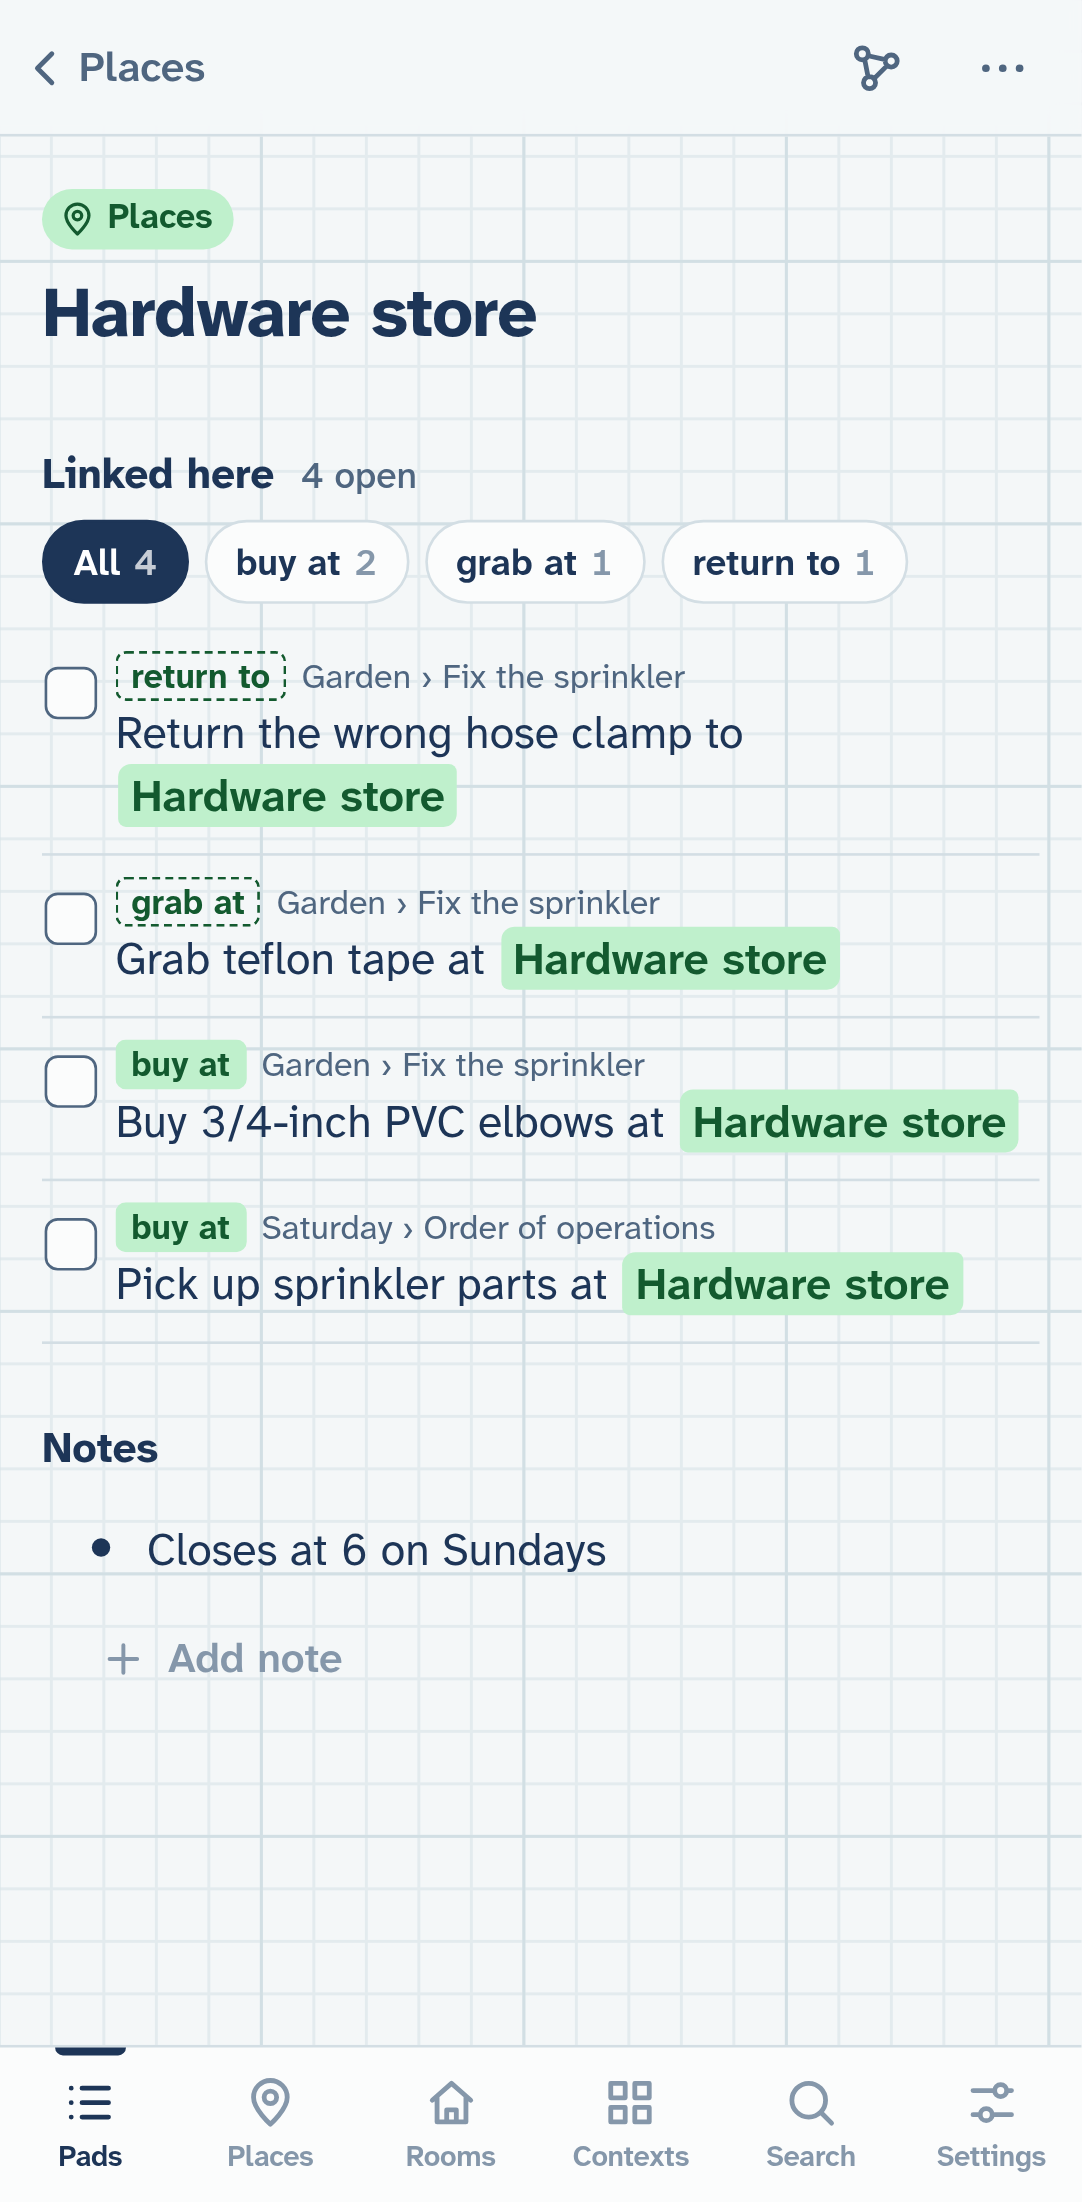
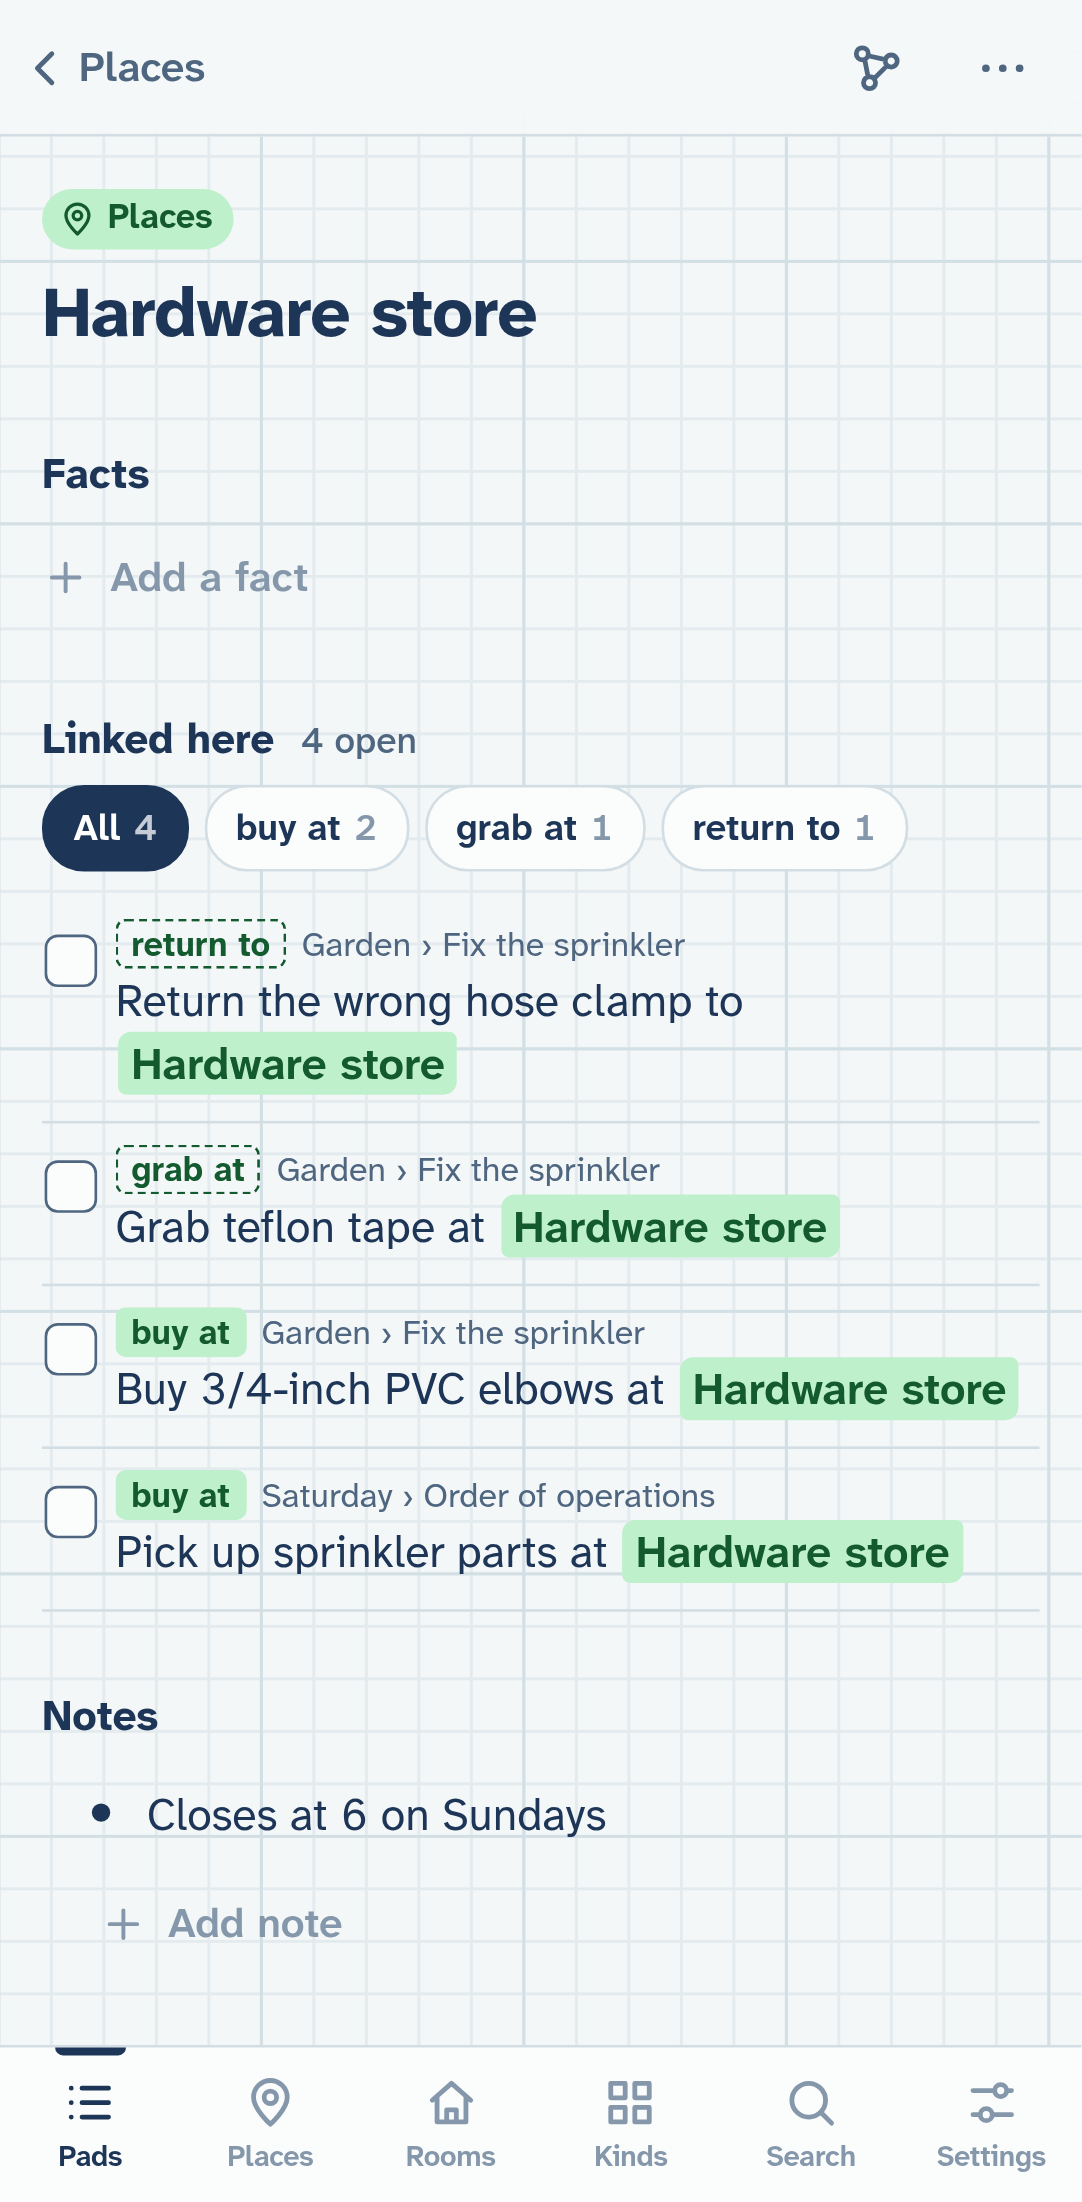
The Contexts tab is Kinds: pages for the things you link to, by kind
"Context" didn't mean much to people. In the app a context is now a page
with a kind: the tab and its page are Kinds (/kinds; /contexts redirects),
"Make it a context…" is "Give it a kind…", "Not a context" is "No kind", and
counts say pages. The code keeps the word context. README screenshots redone.

Claude-Session: https://claude.ai/code/session_013hgWCsSFmwQTxXN2GTq1RW

diff --git a/src/lib/contextActions.ts b/src/lib/contextActions.ts
@@ -9,7 +9,7 @@ import { confirmDialog, openSheet, promptDialog, reportError, toast, type SheetA
 /** Ask for a new kind's name and make it. Resolves to its id, or null. */
 export async function newCategory(): Promise<string | null> {
   const name = await promptDialog({
-    title: 'New kind of context',
+    title: 'New kind',
     message: 'Rooms, Projects, Stores… Anything you link to that’s worth a list of its own.',
     confirmLabel: 'Make it',
     placeholder: 'Rooms',
@@ -29,7 +29,7 @@ export function chooseCategory(nodeId: string, label: string, current: string | 
   const set = (catId: string | null, name?: string) =>
     void api
       .setCategory(nodeId, catId)
-      .then(() => toast(catId ? `“${label}” is in ${name}` : `“${label}” isn’t a context now`))
+      .then(() => toast(catId ? `“${label}” is in ${name}` : `“${label}” has no kind now`))
       .catch(reportError)
   const actions: SheetAction[] = categories.value.map((c) => ({
     label: c.id === current ? `${c.name} ✓` : c.name,
@@ -44,7 +44,7 @@ export function chooseCategory(nodeId: string, label: string, current: string | 
       if (id) set(id, categoryById(id)?.name ?? 'it')
     },
   })
-  if (current) actions.push({ label: 'Not a context', icon: 'x', run: () => set(null) })
+  if (current) actions.push({ label: 'No kind', icon: 'x', run: () => set(null) })
   openSheet({ title: `What is “${label}”?`, actions })
 }
 
@@ -57,7 +57,7 @@ export function togglePinned(id: string): void {
   }
   api
     .setCategoryProps(id, { pinned: !c.pinned })
-    .then(() => toast(c.pinned ? `${c.name} is under Contexts now` : `${c.name} has a tab now`))
+    .then(() => toast(c.pinned ? `${c.name} is under Kinds now` : `${c.name} has a tab now`))
     .catch(reportError)
 }
 
@@ -97,13 +97,13 @@ export function openCategoryMenu(id: string): void {
         run: async () => {
           const ok = await confirmDialog({
             title: `Delete ${c.name}?`,
-            message: `The ${c.count} ${c.count === 1 ? 'context' : 'contexts'} in it stay where they are, with everything that links to them; they just won’t have a kind. You can restore it from Trash.`,
+            message: `The ${c.count} ${c.count === 1 ? 'page' : 'pages'} in it stay where they are, with everything that links to them; they just won’t have a kind. You can restore it from Trash.`,
             confirmLabel: 'Delete',
             danger: true,
           })
           if (!ok) return
           await api.deleteSubtree(id).catch(reportError)
-          void router.replace('/contexts')
+          void router.replace('/kinds')
         },
       },
     ],

diff --git a/src/db/store.ts b/src/db/store.ts
@@ -933,7 +933,7 @@ export class Store {
       // Folded, which shows off folding too.
       const more = add(pad, 'More to find (tap the arrow to open)')
       add(more, 'Paste a list from anywhere, markdown too, and it keeps its nesting, checkboxes and numbers. A line’s menu copies it back out the same way.')
-      add(more, 'Hardware store is a place. Make your own kinds of context, like Rooms or Projects, on the Contexts tab.')
+      add(more, 'Hardware store is a place. Make your own kinds, like Rooms or Projects, on the Kinds tab.')
       add(more, 'Install it from your browser’s menu (Install app, or Add to Home screen) to use it offline, like any app')
       add(more, 'On a computer? Settings → Keyboard turns on Vim keys.')
       this.setCollapsed(more, true)
@@ -1720,7 +1720,7 @@ export class Store {
   setCategoryProps(id: string, patch: CategoryProps): void {
     this.db.tx(() => {
       const r = this.#requireLive(id)
-      if (r.kind !== 'category') throw new StoreError('Not a kind of context', 'not_category')
+      if (r.kind !== 'category') throw new StoreError('Not a kind', 'not_category')
       let props: CategoryProps = {}
       try {
         props = r.props ? JSON.parse(r.props) : {}
@@ -1740,7 +1740,7 @@ export class Store {
     this.db.tx(() => {
       const r = this.#requireLive(id)
       if (r.kind === 'pad' || r.kind === 'relation' || r.kind === 'category') {
-        throw new StoreError('Pads and relations can’t be contexts', 'not_context')
+        throw new StoreError('Pads and relations can’t have a kind', 'not_context')
       }
       if (categoryId) {
         const c = this.#raw(categoryId)

diff --git a/src/views/ContextsView.vue b/src/views/ContextsView.vue
@@ -34,11 +34,11 @@ const meta = (e: ContextEntry) => (e.openBacklinks ? `${e.openBacklinks} open` :
 <template>
   <div class="page contexts-page">
     <header class="topbar">
-      <h1 class="page-title">Contexts</h1>
+      <h1 class="page-title">Kinds</h1>
       <span class="spacer" />
       <button type="button" class="btn btn-primary btn-small" @click="addKind"><Icon name="plus" :size="18" /> New kind</button>
     </header>
-    <p class="note">The things you link to, by kind. Pin a kind to give it its own tab.</p>
+    <p class="note">Pages for the things you link to, by kind. Pin a kind to give it its own tab.</p>
 
     <ul class="list">
       <li v-for="c in categories" :key="c.id" class="list-item">
@@ -46,7 +46,7 @@ const meta = (e: ContextEntry) => (e.openBacklinks ? `${e.openBacklinks} open` :
           <span class="kind-icon" :class="`tone-${c.tone}`"><Icon :name="c.icon" :size="18" /></span>
           <span class="list-text">
             <span class="list-label">{{ c.name }}</span>
-            <span class="list-context">{{ c.count }} {{ c.count === 1 ? 'context' : 'contexts' }}<template v-if="c.open">, {{ c.open }} open</template></span>
+            <span class="list-context">{{ c.count }} {{ c.count === 1 ? 'page' : 'pages' }}<template v-if="c.open">, {{ c.open }} open</template></span>
           </span>
         </RouterLink>
         <button

diff --git a/src/components/Outline.vue b/src/components/Outline.vue
@@ -644,12 +644,12 @@ function openMore(row: T.FlatRow) {
     }
   }
   if (n.kind === 'item' || n.kind === 'place' || n.kind === 'person') {
-    // Any line can be a context (a place, a room, a project…) right where it is.
+    // Any line can have a kind (a place, a room, a project…) right where it is.
     const cat = categoryById(n.category)
     actions.push(
       cat
         ? { label: `Change kind (${cat.name})…`, icon: cat.icon, run: () => chooseCategory(n.id, labelOf(n), n.category) }
-        : { label: 'Make it a context…', icon: 'grid', run: () => chooseCategory(n.id, labelOf(n), null) },
+        : { label: 'Give it a kind…', icon: 'grid', run: () => chooseCategory(n.id, labelOf(n), null) },
     )
   }
   actions.push({ label: 'Delete', icon: 'trash', danger: true, run: () => deleteRow(n.id) })

diff --git a/src/components/BottomNav.vue b/src/components/BottomNav.vue
@@ -11,10 +11,10 @@ const tabs = computed(() => [
   { to: '/pads', label: 'Pads', icon: 'list', match: (p: string) => p.startsWith('/pads') || p.startsWith('/n/') },
   ...pinnedCategories.value.map((c) => ({ to: `/c/${c.id}`, label: c.name, icon: c.icon, match: (p: string) => p === `/c/${c.id}` })),
   {
-    to: '/contexts',
-    label: 'Contexts',
+    to: '/kinds',
+    label: 'Kinds',
     icon: 'grid',
-    match: (p: string) => p.startsWith('/contexts') || (p.startsWith('/c/') && !pinnedCategories.value.some((c) => p === `/c/${c.id}`)),
+    match: (p: string) => p.startsWith('/kinds') || (p.startsWith('/c/') && !pinnedCategories.value.some((c) => p === `/c/${c.id}`)),
   },
   { to: '/search', label: 'Search', icon: 'search', match: (p: string) => p.startsWith('/search') },
   {

diff --git a/src/router.ts b/src/router.ts
@@ -13,7 +13,9 @@ export const router = createRouter({
     { path: '/n/:id', component: NodeView, props: true },
     { path: '/n/:id/graph', component: () => import('./views/GraphView.vue'), props: true },
     { path: '/c/:id', component: () => import('./views/CategoryView.vue'), props: true },
-    { path: '/contexts', component: () => import('./views/ContextsView.vue') },
+    { path: '/kinds', component: () => import('./views/ContextsView.vue') },
+    // The Kinds tab was called Contexts.
+    { path: '/contexts', redirect: '/kinds' },
     // Older links to the two built-in kinds.
     { path: '/places', redirect: `/c/${PLACES_ID}` },
     { path: '/people', redirect: `/c/${PEOPLE_ID}` },

diff --git a/src/views/NodeView.vue b/src/views/NodeView.vue
@@ -311,7 +311,7 @@ function openMenu() {
       ...sendActions({ id: props.id, label: titleLabel.value }, data.value ? subtreeIds(data.value.tree) : [props.id]),
       category.value
         ? { label: `Change kind (${category.value.name})…`, icon: category.value.icon, run: chooseKind }
-        : { label: 'Make it a context…', icon: 'grid', run: chooseKind },
+        : { label: 'Give it a kind…', icon: 'grid', run: chooseKind },
     )
   } else {
     actions.push({ label: 'Rename', icon: 'edit', run: editTitle })

diff --git a/src/views/SettingsView.vue b/src/views/SettingsView.vue
@@ -217,7 +217,7 @@ async function askPersist() {
             </button>
           </li>
         </ul>
-        <button type="button" class="btn" @click="newCategory"><Icon name="plus" :size="18" /> New kind of context</button>
+        <button type="button" class="btn" @click="newCategory"><Icon name="plus" :size="18" /> New kind</button>
       </section>
 
       <section class="card appearance-card">

diff --git a/README.md b/README.md
@@ -12,7 +12,7 @@ Graph Paper is free and open source, and you can [run your own](#run-it-yourself
   <img src="docs/screenshots/graph.png" width="260" alt="The graph around Saturday, three steps out: the numbered list as an ordered column, to-dos as boxes, notes as circles, and dashed links labelled with their relation to places, a person, a room and a waiting state.">
 </p>
 
-Above: A pad with to-dos, notes and links to contexts of different kinds: places, a person, and a room from a kind of context you made, with its own tab (left). A place's page, with what links there labelled by relation; *buy at* is one you kept ("pick up at" counts as it too), the outlined ones are suggestions (middle). The pad's graph, with links labelled (right). `npm run screenshots` rebuilds all three from example data.
+Above: A pad with to-dos, notes and links to pages of different kinds: places, a person, and a room from a kind you made, with its own tab (left). A place's page, with what links there labelled by relation; *buy at* is one you kept ("pick up at" counts as it too), the outlined ones are suggestions (middle). The pad's graph, with links labelled (right). `npm run screenshots` rebuilds all three from example data.
 
 ## Run it yourself
 
@@ -95,8 +95,8 @@ The e2e suites (`e2e/*.mjs`) use `playwright-core` with a Chromium or Chrome alr
 - **Linked here.** A line that other lines link to shows a count at its right; tap it to see them: open to-dos first, then plain mentions, then the done ones (folded away). Finished to-dos don't count. This makes any line a status or tag: put "waiting" in a States pad, link to-dos to it with @, and its page lists what you're waiting on. Each link is labelled with what its wording says, read from the words around it ("buy elbows at [[Hardware store]]" is *buy at*, "waiting on [[Sam]]" is *waiting on*, "[[Sam]] owes me" is *owes*); when a page has more than one kind, chips at the top filter by them, and the graph shows the labels on its link lines. With sync on a server that has an Anthropic API key, Claude Haiku then reads each new or edited linked line on the server and refines the label, reusing the ones already in use ("pick up at" and "grab at" become *buy at*); the labels arrive through sync. `node scripts/example-pad.mjs https://your-sync-server` adds a "Relations playground" pad to try it on.
 - **Your relations.** Labels start as suggestions (outlined). Tap one, or a chip’s **Keep or rename**, to **Keep** it, **Call it something else** (one of your relations, or a new name: "pick up at" then counts as *buy at*), or say it’s **Not a relation**. Kept relations are drawn solid and listed in Settings → **Relations**, each with a page of its links grouped by what they link to, and the other ways you write it as an editable list. Rename or merge from there. **Label just this link** picks the relation for a single line, whatever its wording. Haiku is told your relations, so its labels follow your vocabulary.
 - **Facts.** Some things are true, not just written down: Alex is *cofounder of* Acme. On Alex’s page, **Add a fact** (or ⋯ → **Add a fact…**), pick or name the relation, then what it’s about (or make it on the spot: "New in Projects: Acme"). Alex’s page lists it under **Facts**; Acme’s lists Alex under **Linked here**, labelled *cofounder of*; the graph draws a labelled arrow. A note you already wrote under Alex, like "cofounder of @Acme", can become one: ⋯ → **Make it a fact about “Alex”** (its words start as the relation). Notes are never made into facts for you. Each fact’s ⋯ changes the relation or what it points to, turns it back into a note, or removes it.
-- **Contexts.** A context is anything you link to and come back to: a place, a person, a room, a project. Kinds of context are yours to make: Places and People to start, then Rooms, Projects, Stores… Any line can be one, right where it is: ⋯ → **Make it a context…** and pick a kind (or tap the kind tag on its page to change it). Each kind has a page listing its contexts with their open to-dos, and a box to add another. The **Contexts** tab lists every kind, plus the other things you link to; when the way you link to one matches a kind (things you sweep "in" look like Rooms), it suggests that kind. Contexts take their kind’s icon and colour in chips, rows and the graph, and @ offers "New in Rooms: …".
-- **Tabs.** Give up to three kinds a tab in the bar (Settings → Bottom bar, a kind’s ⋯ menu, or the pin on the Contexts tab); the rest live under Contexts. Places has a tab to start.
+- **Kinds.** Anything you link to and come back to has its own page: a place, a person, a room, a project. Give pages a kind: Places and People to start, then kinds you make, like Rooms, Projects, Stores… Any line can have one, right where it is: ⋯ → **Give it a kind…** (or tap the kind tag on its page to change it). Each kind has a page listing its pages with their open to-dos, and a box to add another. The **Kinds** tab lists every kind, plus the other things you link to; when the way you link to one matches a kind (things you sweep "in" look like Rooms), it suggests that kind. Pages take their kind’s icon and colour in chips, rows and the graph, and @ offers "New in Rooms: …".
+- **Tabs.** Give up to three kinds a tab in the bar (Settings → Bottom bar, a kind’s ⋯ menu, or the pin on the Kinds tab); the rest live under Kinds. Places has a tab to start.
 - **Graph** (the node icon at the top right of any item) shows its neighborhood 1–3 steps out. Solid lines are nesting and dashed arrows are links; to-dos are boxes (ticked and dimmed when done) and notes are circles. Drag nodes around; tap one to make it the focus (back steps to the previous one); **Open** on the card goes to its page.
 - **Sync.** When the site it's served from has a sync server, the app turns sync on by itself and says so once. Every change is saved on the device first and sent in the background: shortly after you edit, when the app comes back to the foreground or the network returns, and right away when another device changes something. Offline, nothing changes except that changes wait. A new device downloads your lists instead of showing the welcome pad. Settings → Sync & data shows the state, has **Sync now**, and can turn it off for this device.
 - **Pasting a draft.** Paste several lines (a markdown list written in vim, say) and they keep their shape. Indentation nests lines, whether it’s 2 spaces, 4 or tabs, and a `#` heading takes the lines below it, up to the next heading of its level. `[ ]` and `[x]` make to-dos (checked off for `[x]`); `-`, `*`, `1.` and headings make notes; `1.` numbers its list. A line with no marker follows the line before it. Blank lines and `---` rules are dropped. Pasted into a line, the first pasted line joins it and the lines indented under it go inside; pasted into a pad’s title, the first line names the pad.

diff --git a/CLAUDE.md b/CLAUDE.md
@@ -59,7 +59,7 @@ Conventions within the model:
 - "Backlinks" for a node = incoming `link` edges, each shown with the source node's breadcrumb path (pad → ancestors → item).
 - Deleting a node soft-deletes it and its subtree. Link chips pointing to a deleted node render as struck-through, not as broken tokens.
 - Migration 2 adds `nodes.sort_key`: a fractional key ordering root nodes (pads), since they have no incoming `child` edge to carry order. NULL for everything else.
-- Migration 9: kinds of context. A node of kind `category` is a kind (Places, Rooms…), named by its text, with settings in `nodes.props` (JSON: icon, pinned, tone); `nodes.category` says what kind of context a node is (synced). Places and People exist from the start with fixed ids (`PLACES_ID`, `PEOPLE_ID`) and clock '0', so every device has the same two; older `place`/`person` nodes belong to them (`effectiveCategory`). "Is the database empty" checks ignore them. Contexts stay where they are in lists; kinds are suggested from the relations pointing at them (`#categorySuggester`). Up to 3 kinds are pinned to the bottom bar; the rest are under the Contexts tab.
+- Migration 9: kinds of context. A node of kind `category` is a kind (Places, Rooms…), named by its text, with settings in `nodes.props` (JSON: icon, pinned, tone); `nodes.category` says what kind of context a node is (synced). Places and People exist from the start with fixed ids (`PLACES_ID`, `PEOPLE_ID`) and clock '0', so every device has the same two; older `place`/`person` nodes belong to them (`effectiveCategory`). "Is the database empty" checks ignore them. Contexts stay where they are in lists; kinds are suggested from the relations pointing at them (`#categorySuggester`). Up to 3 kinds are pinned to the bottom bar; the rest are under the Kinds tab (ContextsView, at /kinds). In the UI a context is "a page with a kind"; the code keeps the word context.
 - Migration 3 adds `nodes.numbered`: 1 means this node's children are a numbered (ordered) list. The outline shows 1. 2. 3.; the graph lays them out as a column beside the parent, in order (`GraphEdge.index`).
 - Migration 4 adds `nodes.task`: 1 means a to-do (checkbox), 0 a plain bullet note. Invariants: only items can be to-dos, and only to-dos can be done (`setDone(true)` makes a bullet a to-do; `setTask(false)` unchecks). "Open" everywhere means `task = 1 AND done = 0`. A new item copies the to-do flag of the item next to it (`#taskFor`, mirrored by `taskFor` in treeOps); with no neighbouring item it's a to-do, except under a place/person. Items created from the link picker are bullets. `TreeNode.links` counts live incoming links, excluding finished to-dos.
 - Sibling keys are computed against *all* children, including soft-deleted ones, so keys stay unique and restored nodes return to their old position.
